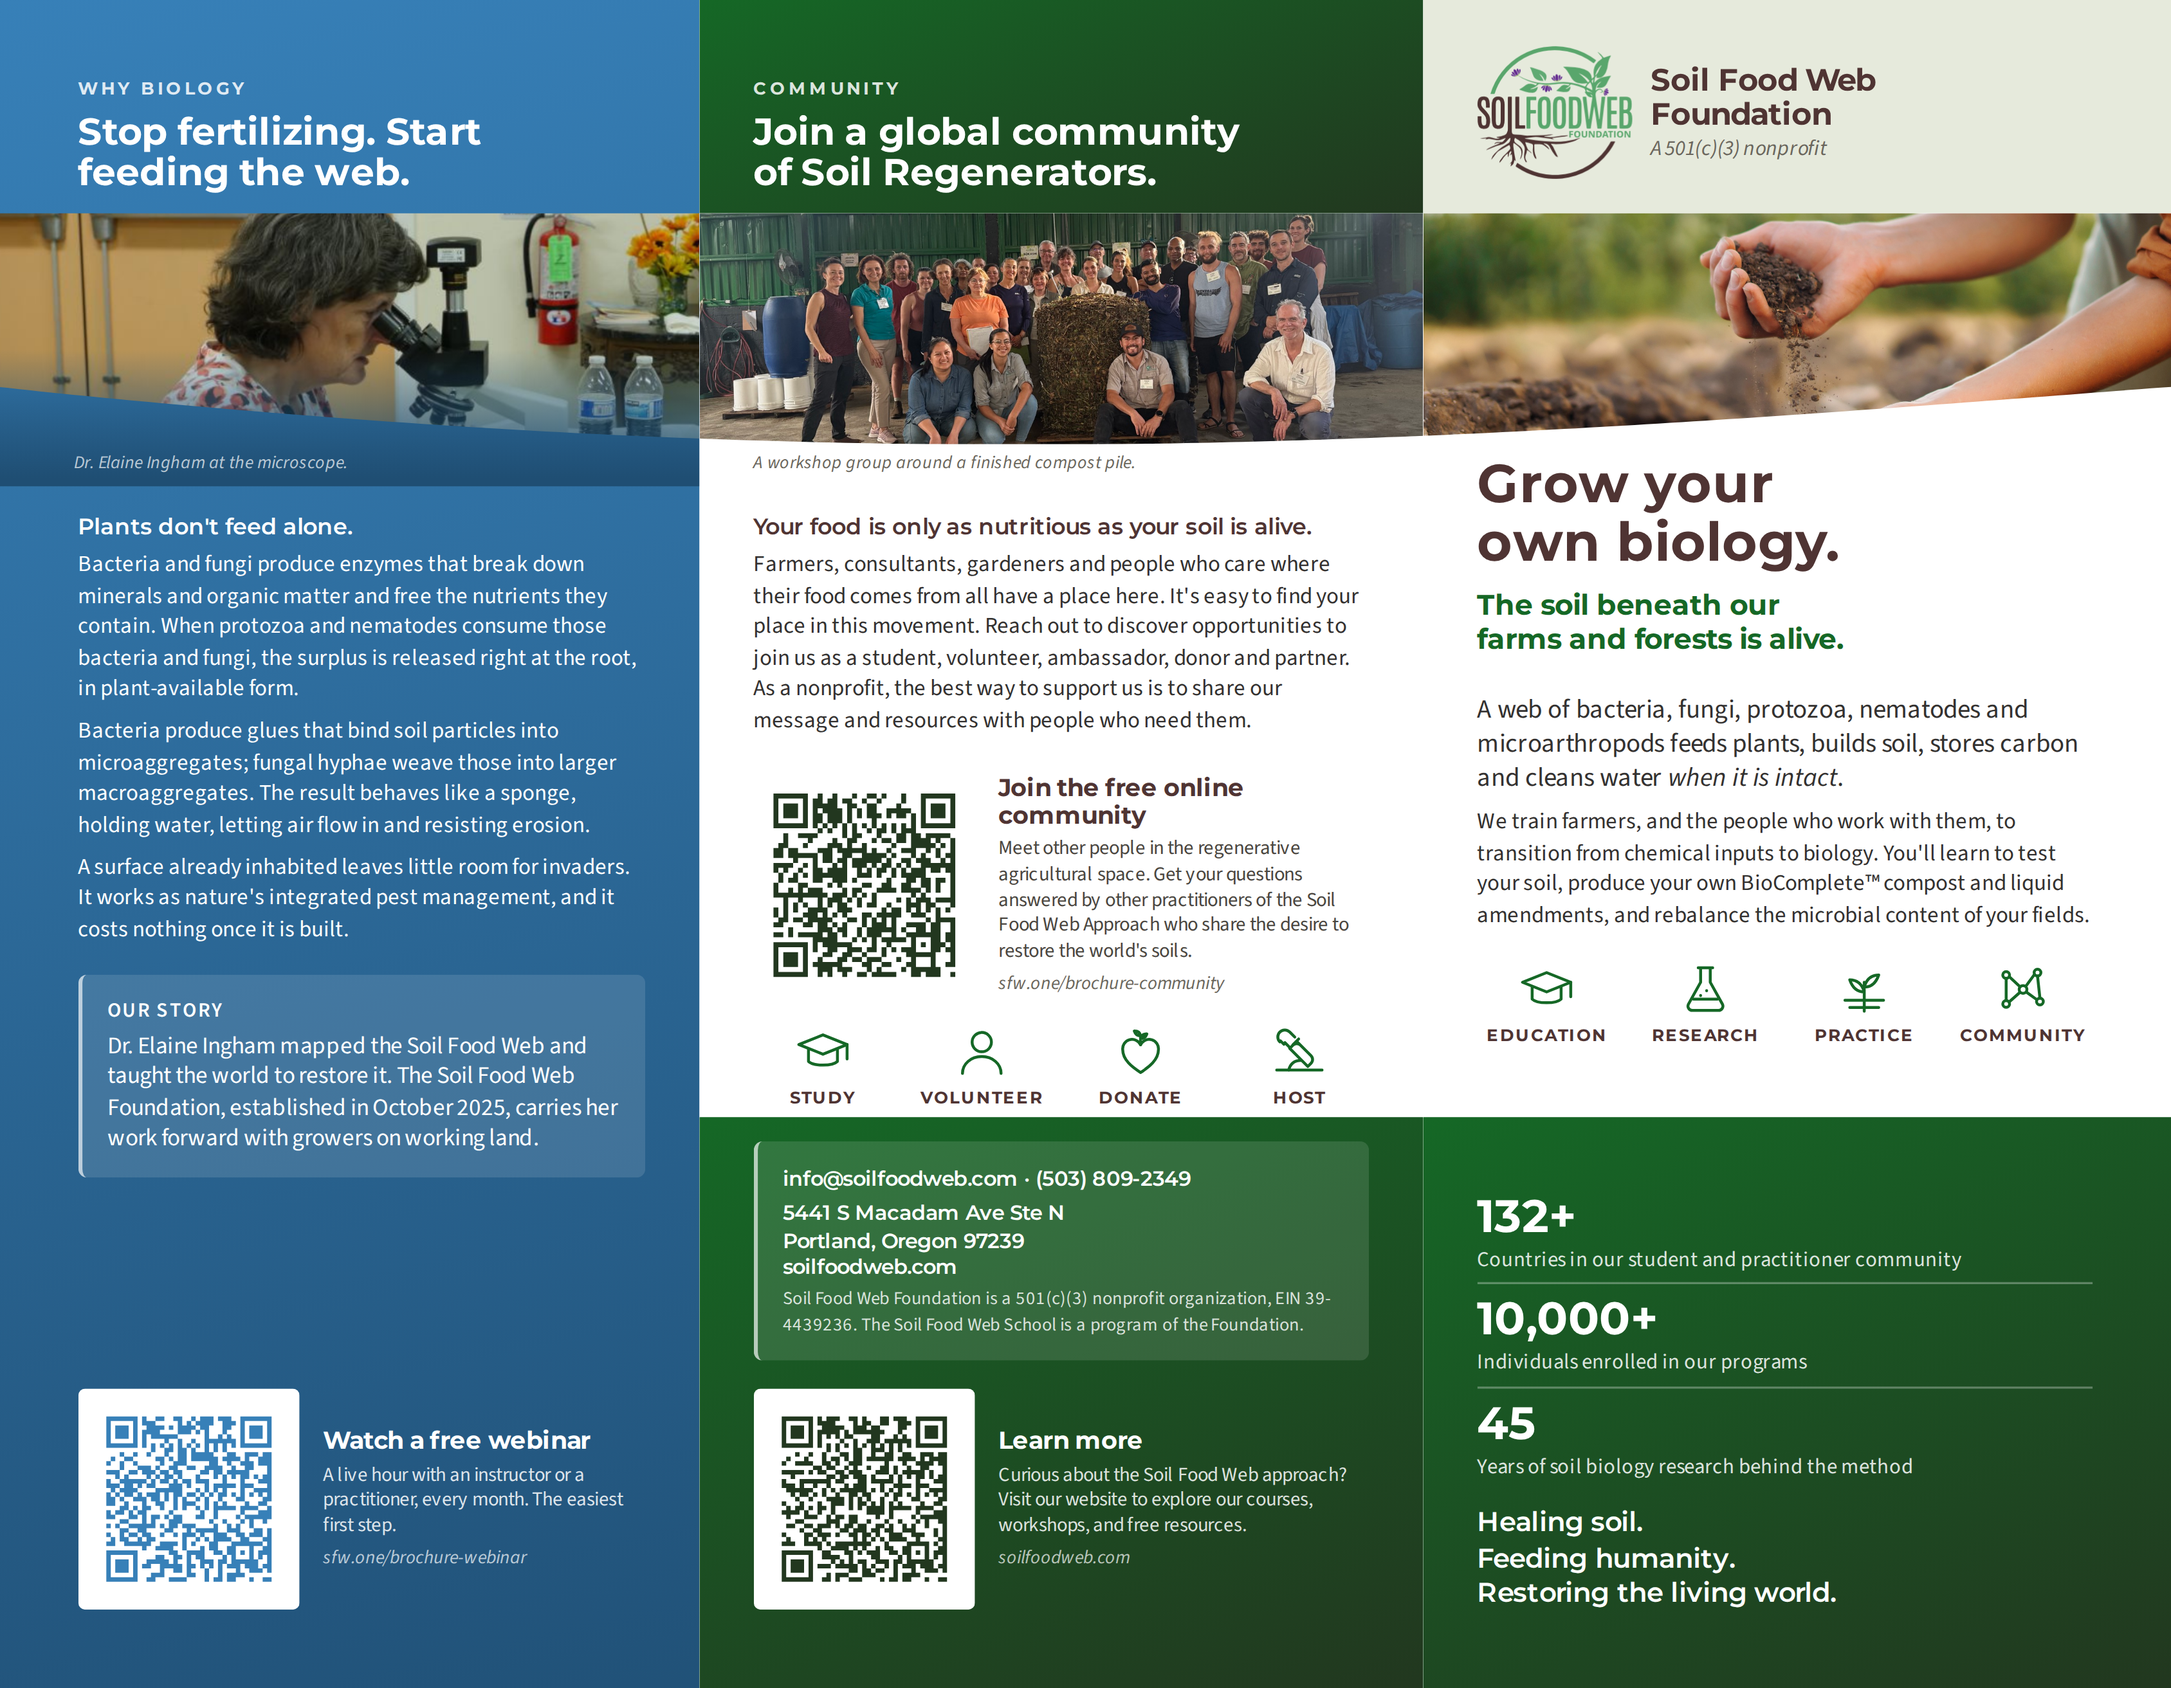
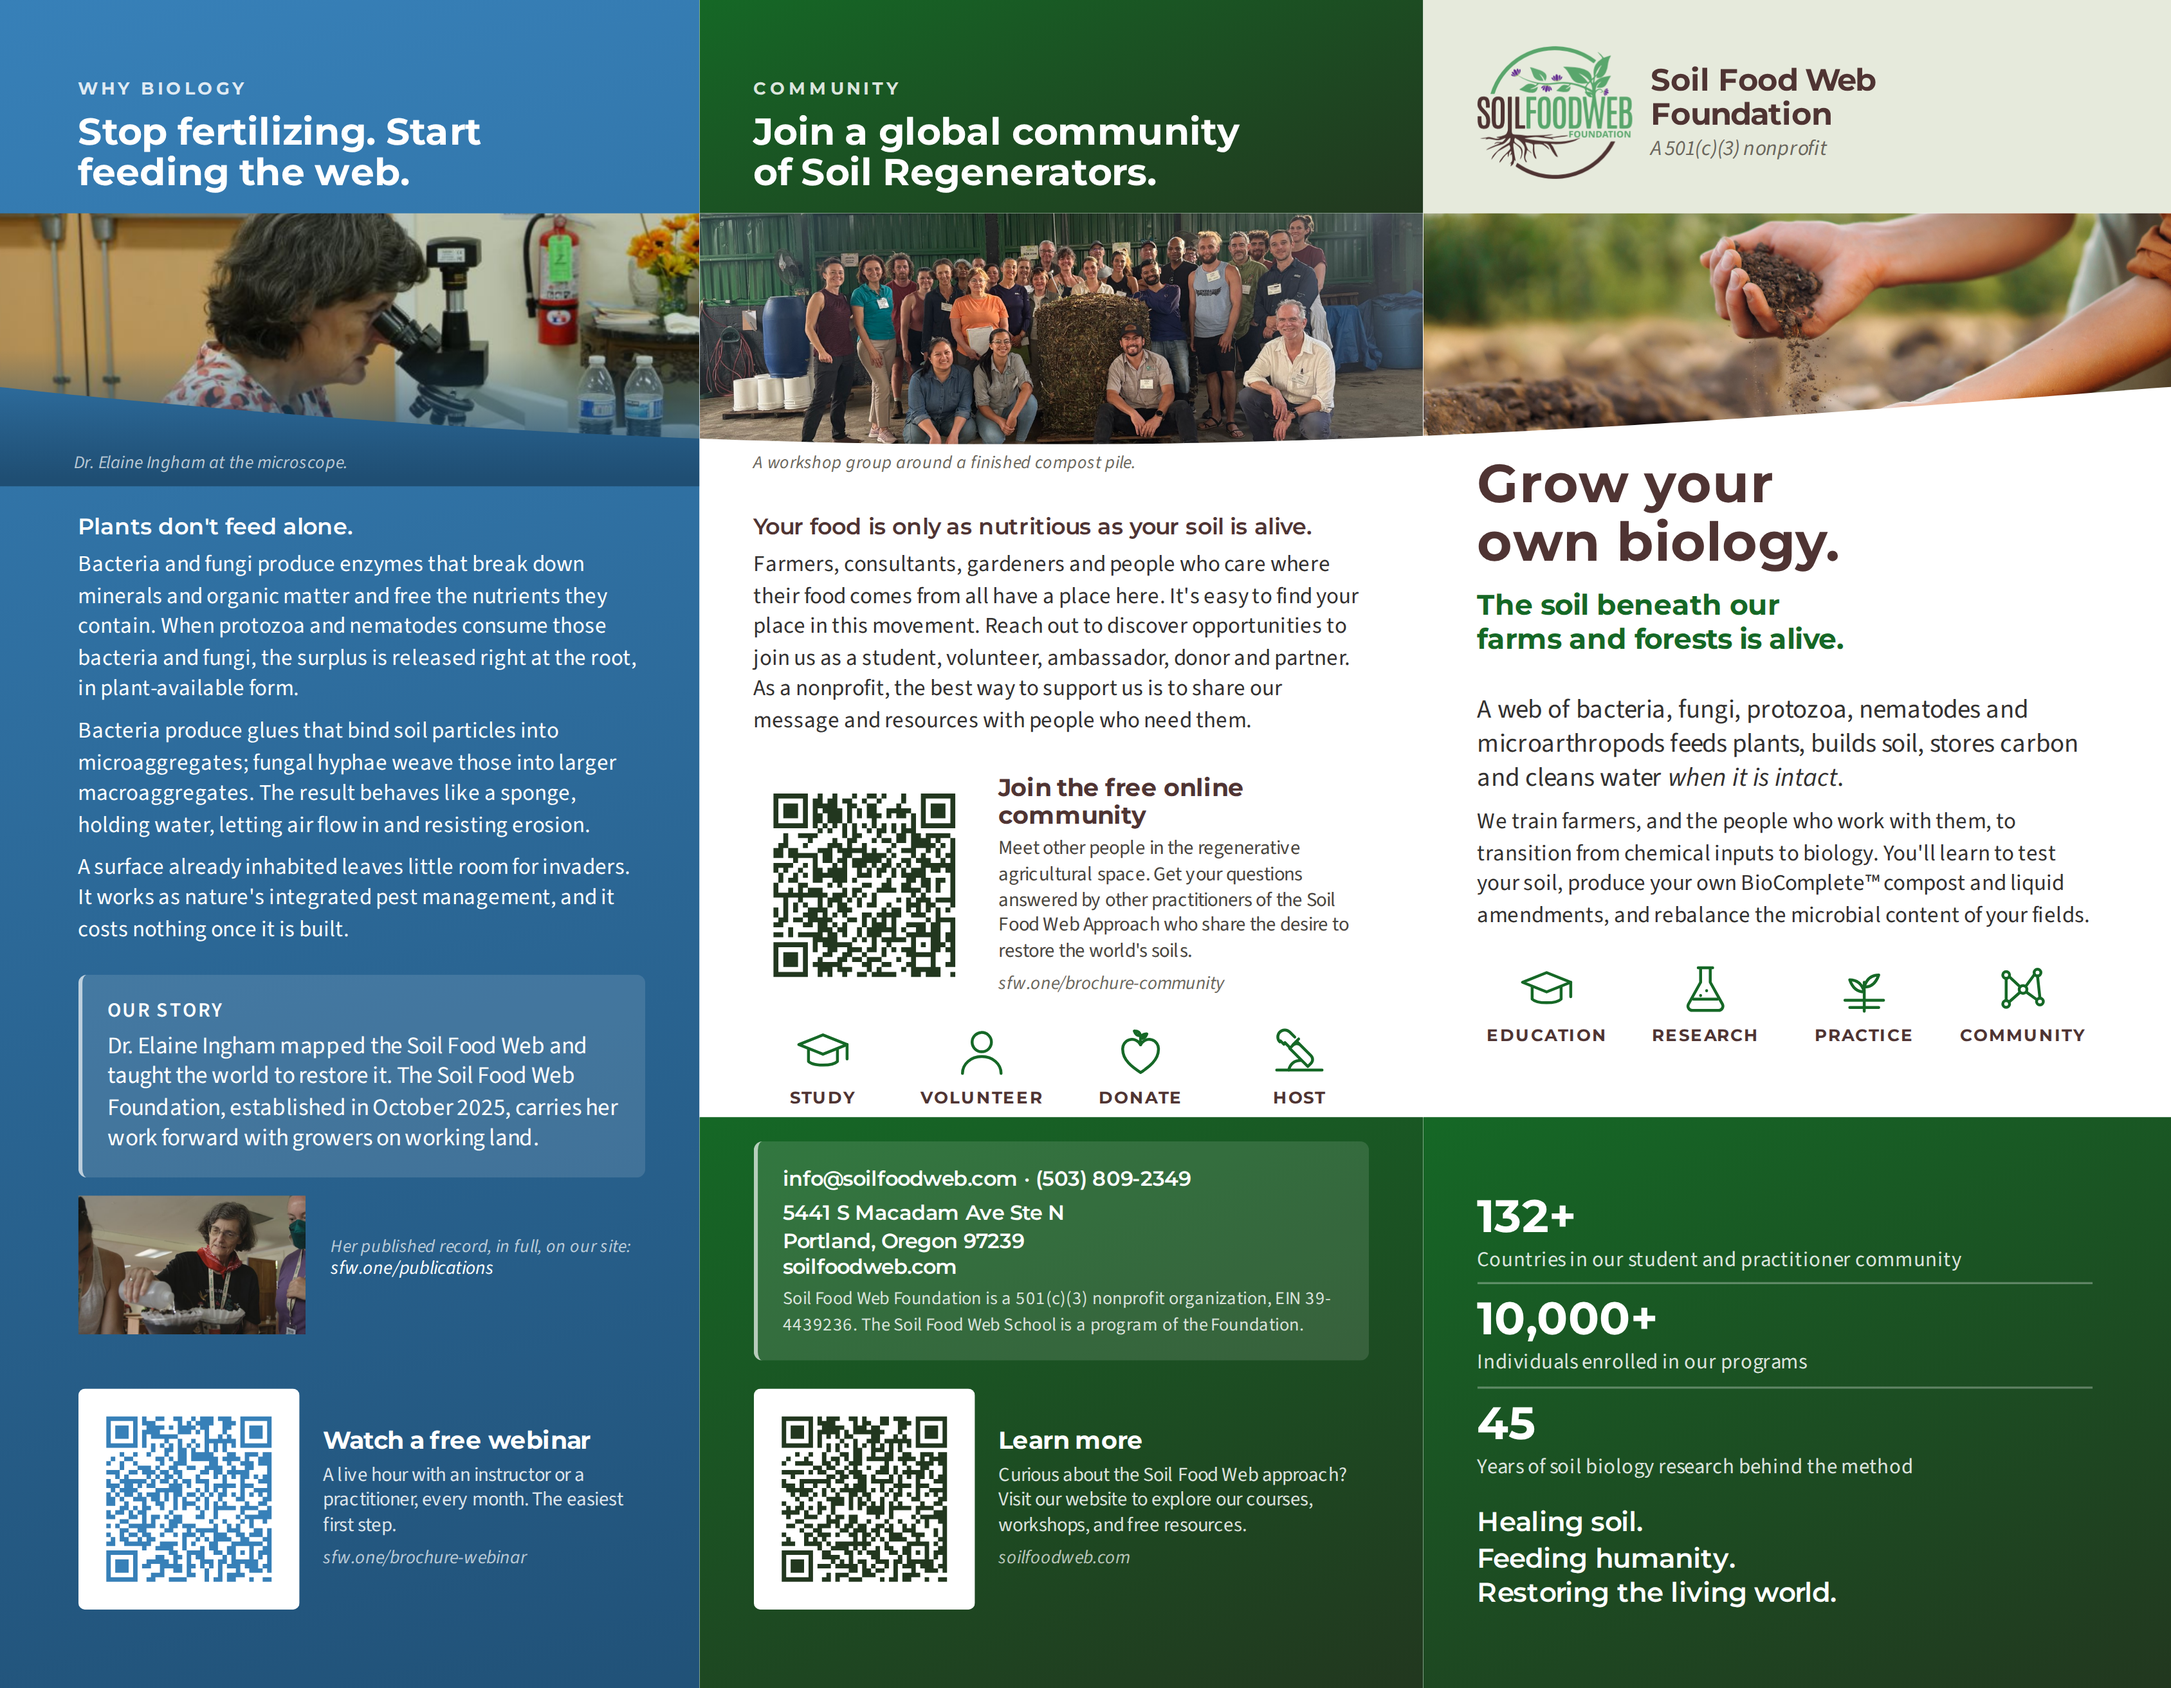
Trifold for farmers: first flap filled with the first trifold's publications photo
Claude-Session: https://claude.ai/code/session_01Two6wTBX3BHPyNb7hsdtRq

Changed region(s): [[0.0311, 0.6872, 0.2178, 0.8122]]

diff --git a/trifold-farmers/build/outside.html b/trifold-farmers/build/outside.html
@@ -88,6 +88,12 @@
           working land.</p>
       </div>
 
+      <figure class="figure figure--side">
+        <img src="/img/w/elaine-and-nematode-extraction.jpg" alt="" style="object-position:50% 40%">
+        <figcaption class="caption">Her published record, in full,
+          on our site:<br><span class="url">sfw.one/publications</span></figcaption>
+      </figure>
+
       <div class="spacer"></div>
 
       <div class="qr">
